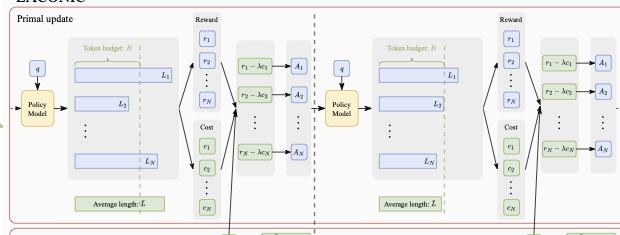
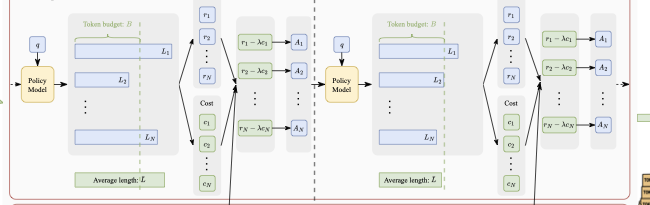
Clarify README method section with simple math

diff --git a/README.md b/README.md
@@ -8,10 +8,6 @@ Official implementation of **LACONIC**, a reinforcement learning method that tea
 
 This lets models become **shorter, cheaper, and faster at inference** without changing the decoding pipeline at deployment time.
 
-![LACONIC overview](./assets/laconic_overview.png)
-
-*Overview of the LACONIC training procedure: policy updates optimize task reward under a length-aware cost, while a dual update adjusts the strength of that cost to keep generations near the desired token budget.*
-
 ## Why This Is Interesting
 
 Reinforcement learning can improve reasoning performance, but it often makes models much more verbose. That extra verbosity increases latency and serving cost, and it is hard to control reliably with fixed heuristic penalties.
@@ -22,7 +18,7 @@ LACONIC addresses that problem directly during RL training:
 - the model is penalized when it exceeds a target token budget
 - the penalty strength is adjusted adaptively instead of being fixed by hand
 
-In one sentence: **LACONIC teaches the model to treat output tokens as a budget.**
+In one sentence: **LACONIC makes unnecessary output tokens expensive during RL training.**
 
 ## Headline Results
 
@@ -38,22 +34,42 @@ Paper link: [arXiv:2602.14468](https://arxiv.org/abs/2602.14468)
 
 ## How LACONIC Works
 
-At a high level, each RL update follows this logic:
+The idea can be summarized in three lines:
 
-1. Generate responses with the current policy.
-2. Compute the usual task reward.
-3. Measure whether each response exceeds the target token budget.
-4. Subtract a length-aware cost from over-budget responses.
-5. Update the policy with the combined objective.
-6. Update the dual variable so the model stays near the desired average response length.
+$$
+\text{objective} = r_{\text{task}} - \lambda \, c_{\text{len}}
+$$
 
-An intuitive mental model:
+$$
+c_{\text{len}} = \max\left(0, \frac{L-B}{B}\right)
+$$
 
-- if a response is correct and concise, it keeps the task reward and pays little or no length cost
-- if a response is correct but unnecessarily long, it pays an additional cost
-- if the model keeps overshooting the budget across training, LACONIC increases the pressure to be shorter
+$$
+\bar L > B \Rightarrow \lambda \text{ increases}, \qquad
+\bar L < B \Rightarrow \lambda \text{ decreases}
+$$
 
-This is why the method is more robust than a fixed manually chosen length penalty.
+where:
+
+- $r_{\text{task}}$ is the usual task reward
+- $L$ is the response length
+- $B$ is the target token budget
+- $c_{\text{len}}$ is the over-length cost
+- $\lambda$ controls how expensive extra length is
+
+The interpretation is simple:
+
+- if a response stays within budget, the length cost is zero
+- if a response goes over budget, it pays an extra cost
+- if the model keeps being too long on average, LACONIC raises $\lambda$
+- if the model is already short enough, LACONIC relaxes $\lambda$
+
+So LACONIC is just **standard RL plus an adaptive cost on overlong outputs**.
+
+<p align="center">
+  <img src="./assets/laconic_overview.png" alt="LACONIC overview" width="88%">
+</p>
+<p align="center"><em>Policy updates optimize task reward minus a length-aware cost, while the dual update adjusts the strength of that cost to keep generations near the desired token budget.</em></p>
 
 ## Why It Matters
 
